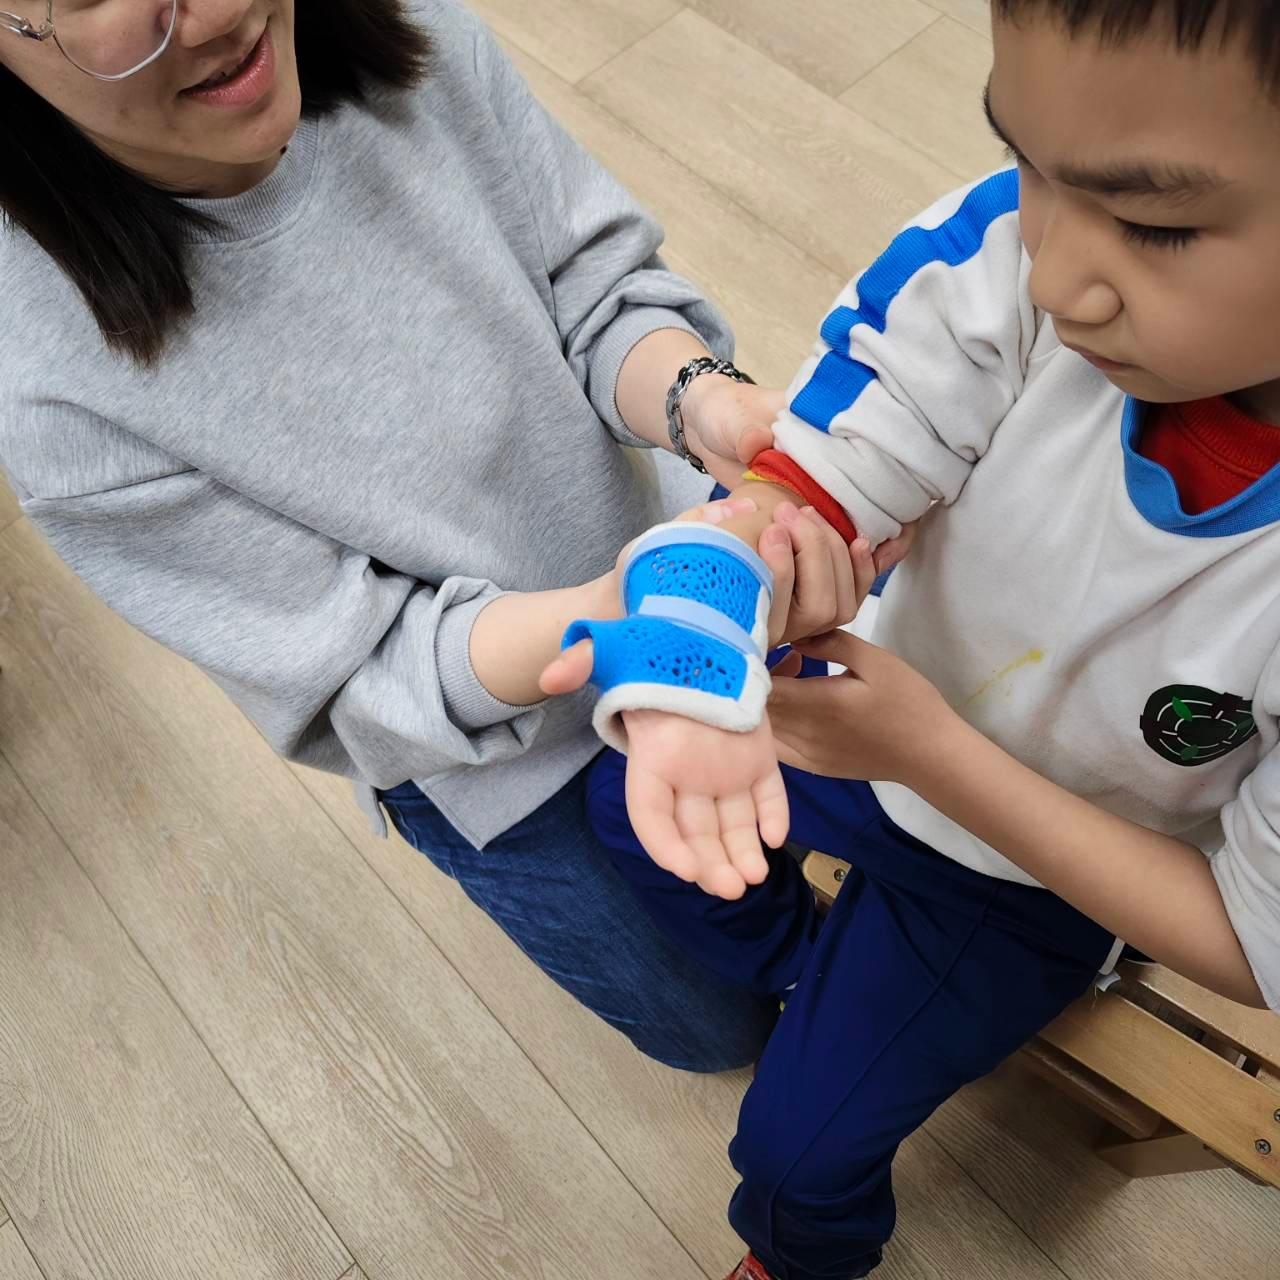
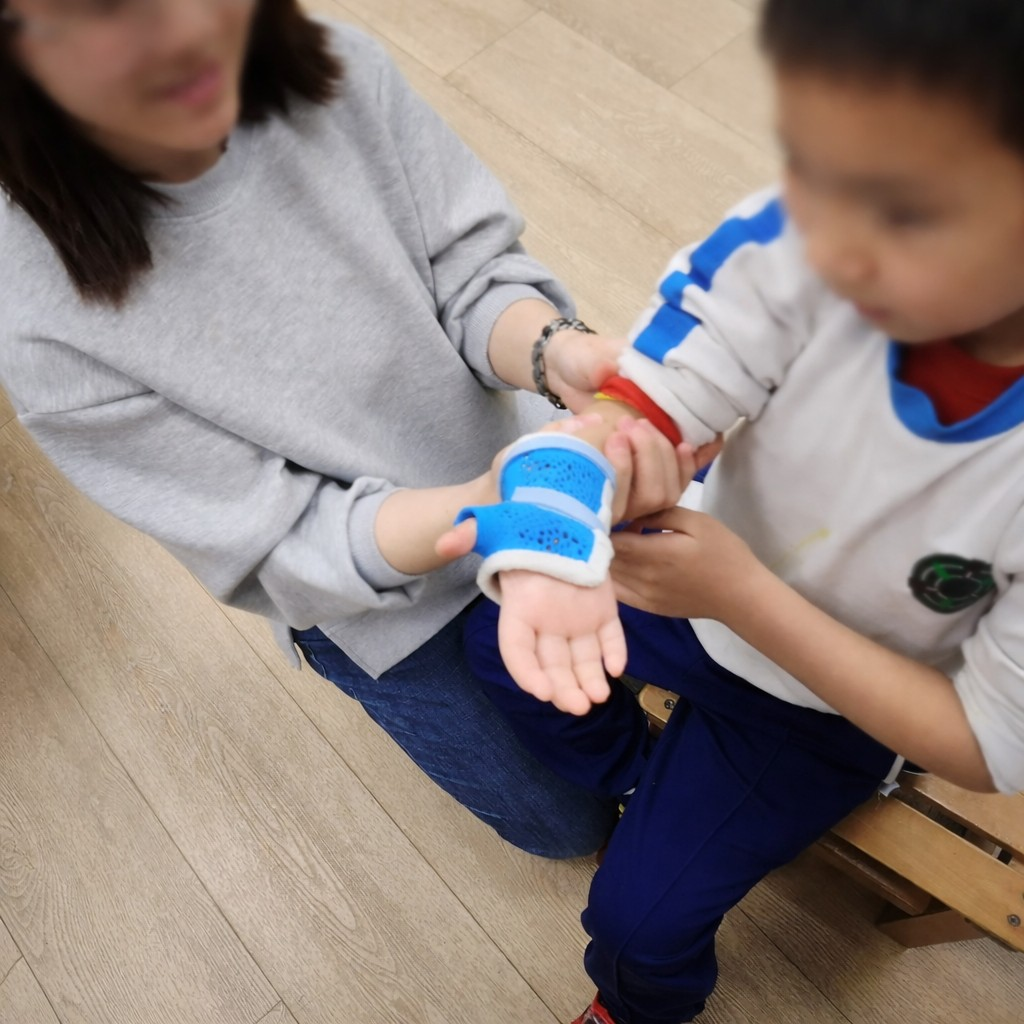
Replace workshop lecture image and update fitting-child photo
- Replace blog-presentatie.jpg (stock photo from different website) with proper conference auditorium image for Professional Lectures section
- Update fitting-child.jpeg with new edited version showing child wrist brace fitting
- Update all image references in WorkshopsPage component

diff --git a/src/App.jsx b/src/App.jsx
@@ -1264,7 +1264,7 @@ function WorkshopsPage({ t }) {
       <section className="relative pt-28 pb-16 lg:pt-36 lg:pb-24 overflow-hidden"
         style={{ background: `linear-gradient(135deg, ${C.bgDark} 0%, ${C.primaryDark} 50%, ${C.bgDark} 100%)` }}>
         <div className="absolute inset-0 opacity-20"
-          style={{ backgroundImage: "url(/images/blog-presentatie.jpg)", backgroundSize: "cover", backgroundPosition: "center", filter: "brightness(0.4)" }} />
+          style={{ backgroundImage: "url(/images/workshop-lecture.jpeg)", backgroundSize: "cover", backgroundPosition: "center", filter: "brightness(0.4)" }} />
         <DecorativeStars count={8} />
         <div className="relative z-10 max-w-7xl mx-auto px-5 lg:px-8">
           <a href="#home" onClick={(e) => { e.preventDefault(); navigate("home"); }}
@@ -1298,7 +1298,7 @@ function WorkshopsPage({ t }) {
                       <div className="rounded-3xl overflow-hidden aspect-[4/3] relative"
                         style={{ border: `1px solid ${C.primary}25` }}>
                         <ProductImage
-                          src={["/images/blog-presentatie.jpg", "/images/fitting-child.jpeg", "/images/3d-hand-collage.jpeg"][i]}
+                          src={["/images/workshop-lecture.jpeg", "/images/fitting-child.jpeg", "/images/3d-hand-collage.jpeg"][i]}
                           alt={section.title}
                           iconFallback={IconComp}
                           className="w-full h-full"
